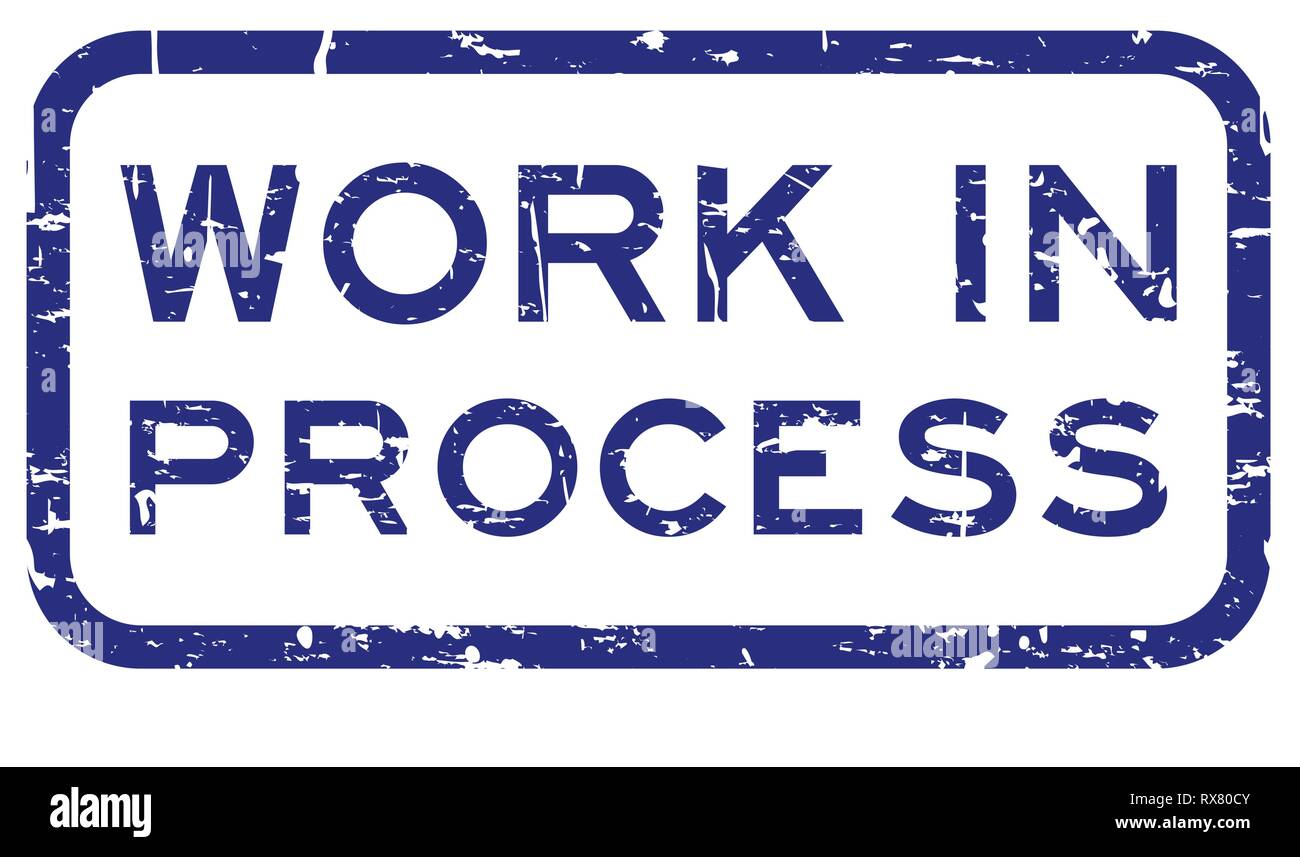
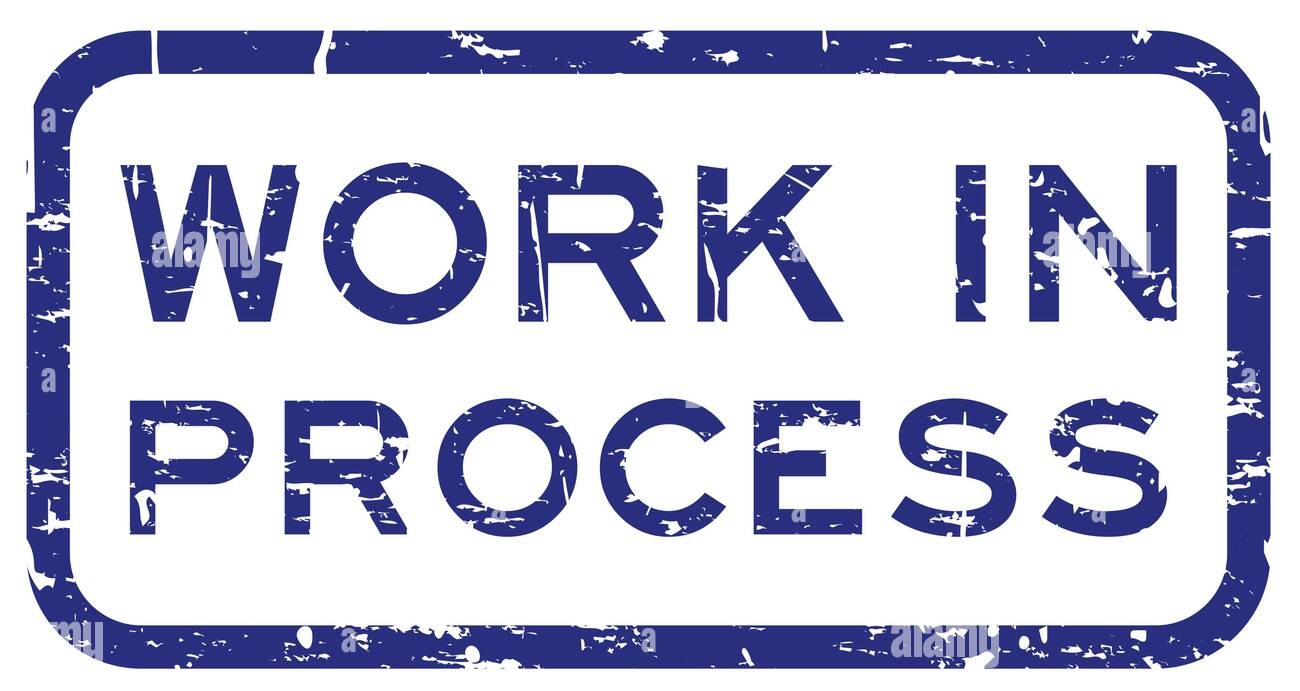
Projects

diff --git a/src/constants/index.js b/src/constants/index.js
@@ -31,6 +31,7 @@ import {
   corporate_finance,
   quantative,
   ml,
+  wip
 } from "../assets";
 
 export const navLinks = [
@@ -220,7 +221,7 @@ const projects = [
         color: "pink-text-gradient",
       },
     ],
-    image: carrent,
+    image: wip,
     source_code_link: "https://github.com/",
   },
   {
@@ -287,13 +288,13 @@ const projects = [
         color: "pink-text-gradient",
       },
     ],
-    image: carrent,
+    image: wip,
     source_code_link: "https://github.com/",
   },
   {
-    name: "ThoughtFlow Hub",
+    name: "Data Analytics Project 1",
     description:
-      "An advance SaaS product, built with NextJs, React, SSR, GraphQL, and Tailwind CSS, this project redefines web development with cutting-edge technologies, ensuring optimal performance and innovative coding solutions.",
+      "Woring.....",
     tags: [
       {
         name: "NextJs",
@@ -308,13 +309,13 @@ const projects = [
         color: "pink-text-gradient",
       },
     ],
-    image: carrent,
+    image: wip,
     source_code_link: "https://github.com/",
   },
   {
-    name: "ThoughtFlow Hub",
+    name: "Data Analysis Project 2",
     description:
-      "An advance SaaS product, built with NextJs, React, SSR, GraphQL, and Tailwind CSS, this project redefines web development with cutting-edge technologies, ensuring optimal performance and innovative coding solutions.",
+      "Working......",
     tags: [
       {
         name: "NextJs",
@@ -329,7 +330,7 @@ const projects = [
         color: "pink-text-gradient",
       },
     ],
-    image: carrent,
+    image: wip,
     source_code_link: "https://github.com/",
   },
 ];

diff --git a/src/assets/index.js b/src/assets/index.js
@@ -1,3 +1,4 @@
+import wip from "./wip.jpg"
 import logo from "./logo.svg";
 import coursera from "./coursera.png"
 import website from "./portWeb.jpeg"
@@ -100,5 +101,6 @@ export {
   quantative,
   corporate_finance,
   linkedin,
-  mail
+  mail,
+  wip
 };
